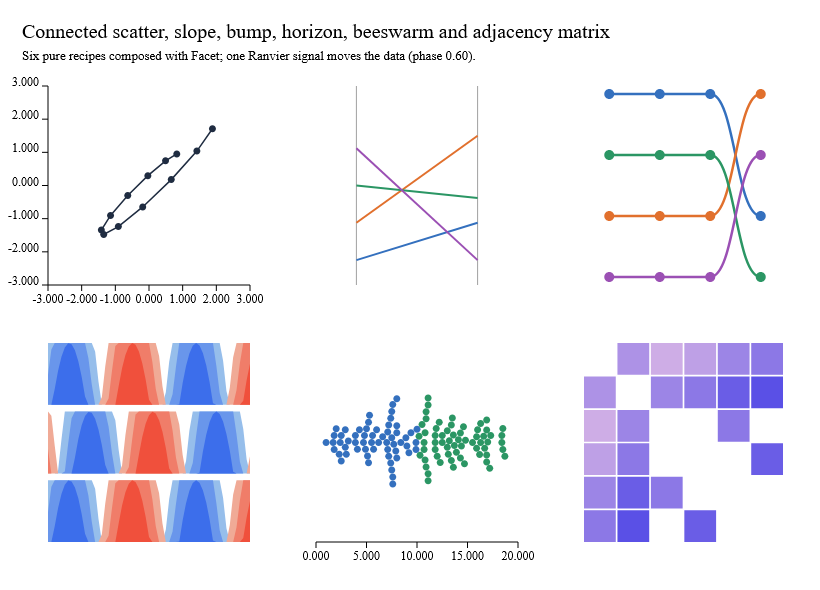
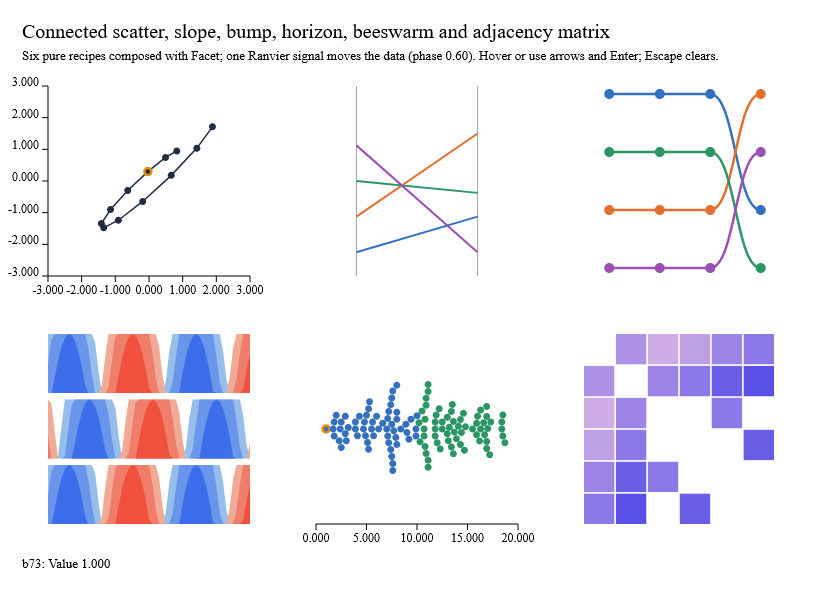
Add native hover, keyboard focus and selection to the advanced recipes (#50)
The advanced gallery now mounts through ChartInteraction. Selected, focused and
hovered marks are outlined, and a status line reads the active item's semantic
description. Arrow keys move focus, Enter selects and Escape clears.

The native capture now checks a hover in all six panels and keyboard selection
that survives a data change. This exposed that horizon semantics and hit targets
named a row mark that was never emitted. Horizon rows now emit an unfilled,
labelled outline under that key, and a test requires every recipe's semantics
and hit targets to name scene marks.

diff --git a/docs/advanced-charts.md b/docs/advanced-charts.md
@@ -12,8 +12,24 @@ dotnet run --project examples/Ranvier.D5.Gallery -c Release -- --capture-advance
 ```
 
 The gallery composes all six with `Facet` and moves their data through one
-signal. The capture fails unless every cleanly pickable dot and matrix cell
-paints in native pixels at both phases.
+signal. `ChartInteraction.attach` adds hover, keyboard focus and selection.
+Selected, focused and hovered marks are outlined, and a status line reads the
+active item's semantic description. Arrow keys move focus, Enter or Space
+selects, and Escape clears.
+
+The capture fails unless every cleanly pickable dot and matrix cell paints in
+native pixels at both phases. It also fails unless:
+
+- a native hover picks and describes one item in each of the six panels;
+- the hover clears outside the marks;
+- arrow keys and Enter select the focused item;
+- the selection survives the phase change;
+- Escape clears the selection;
+- every picked item names a scene mark that can be outlined.
+
+Every semantic and hit target names a mark in the recipe's scene. Horizon rows
+add an unfilled, labelled outline for this, which gives each row an accessible
+label.
 
 | Recipe | Contract | Limits |
 |---|---|---|
